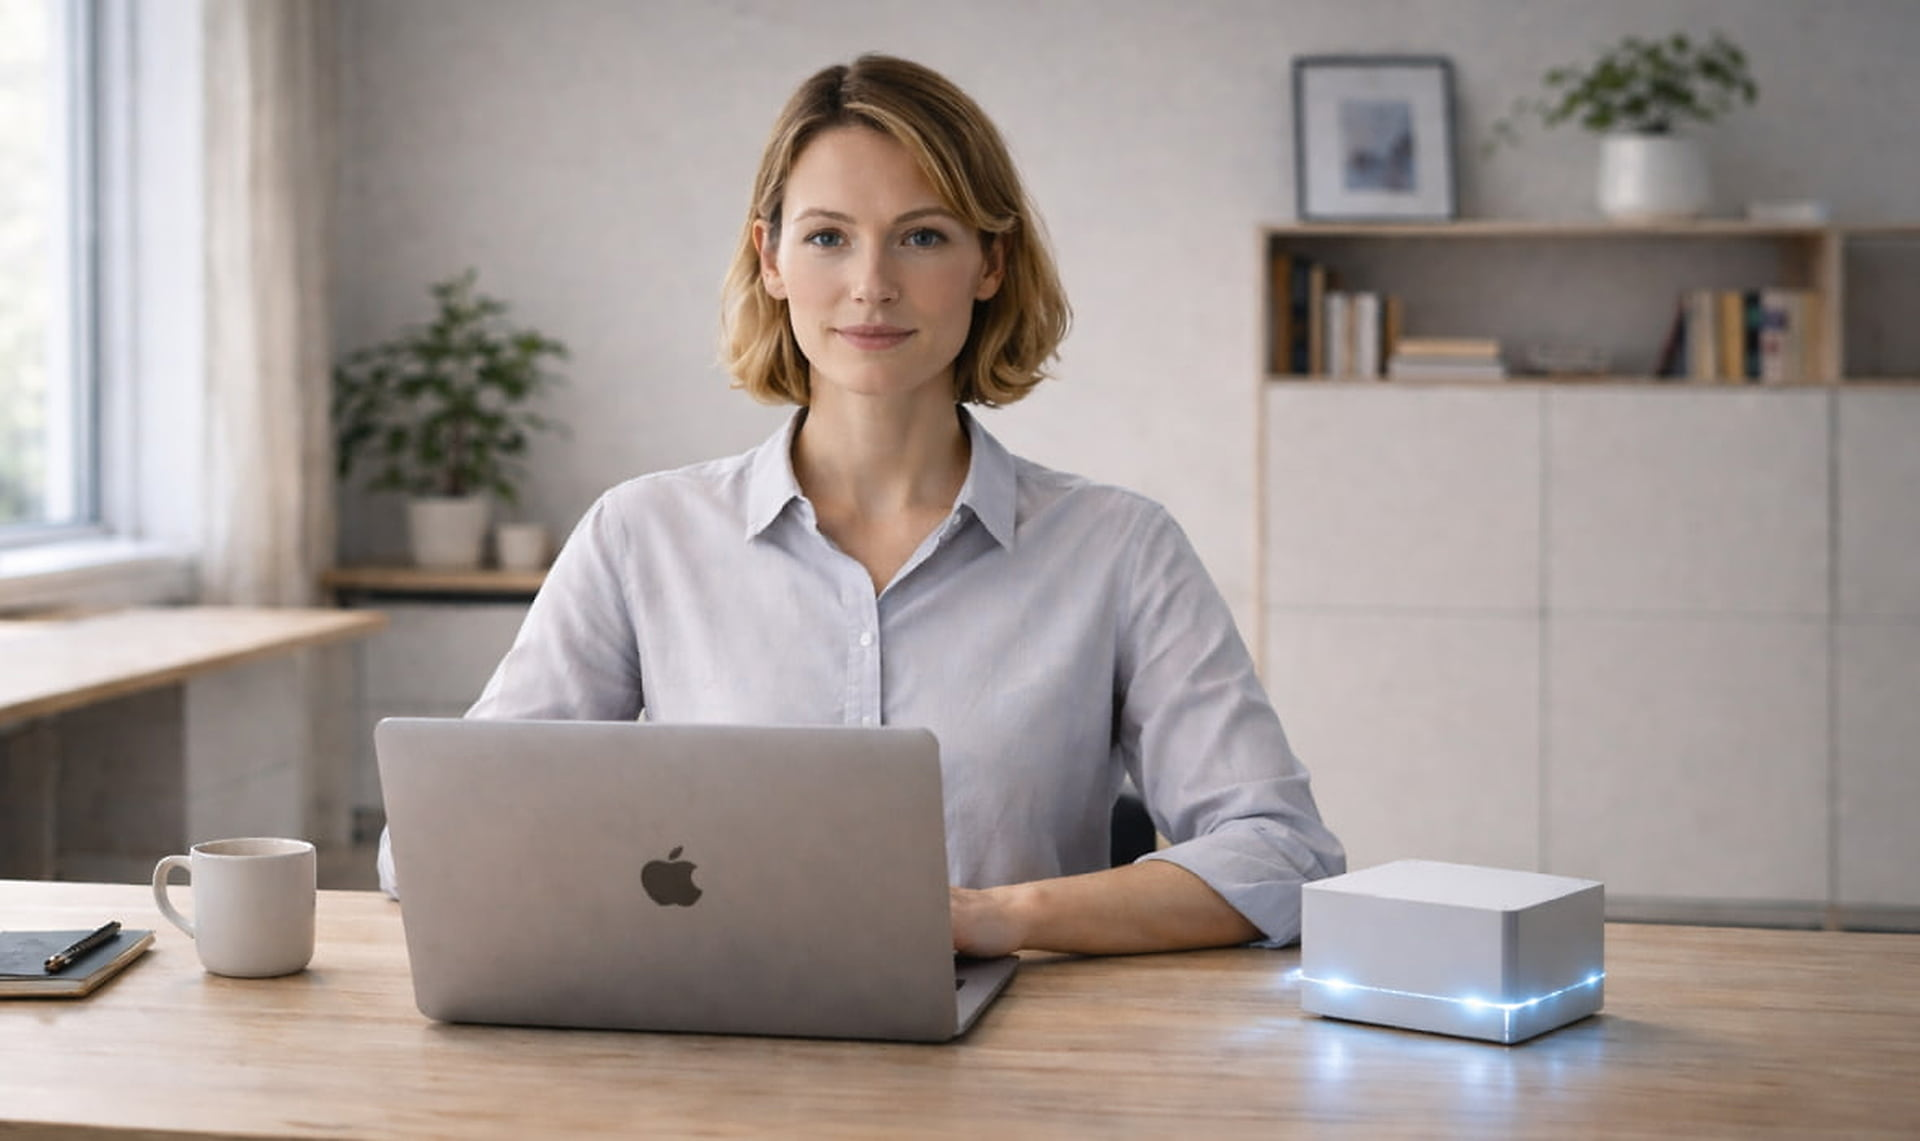
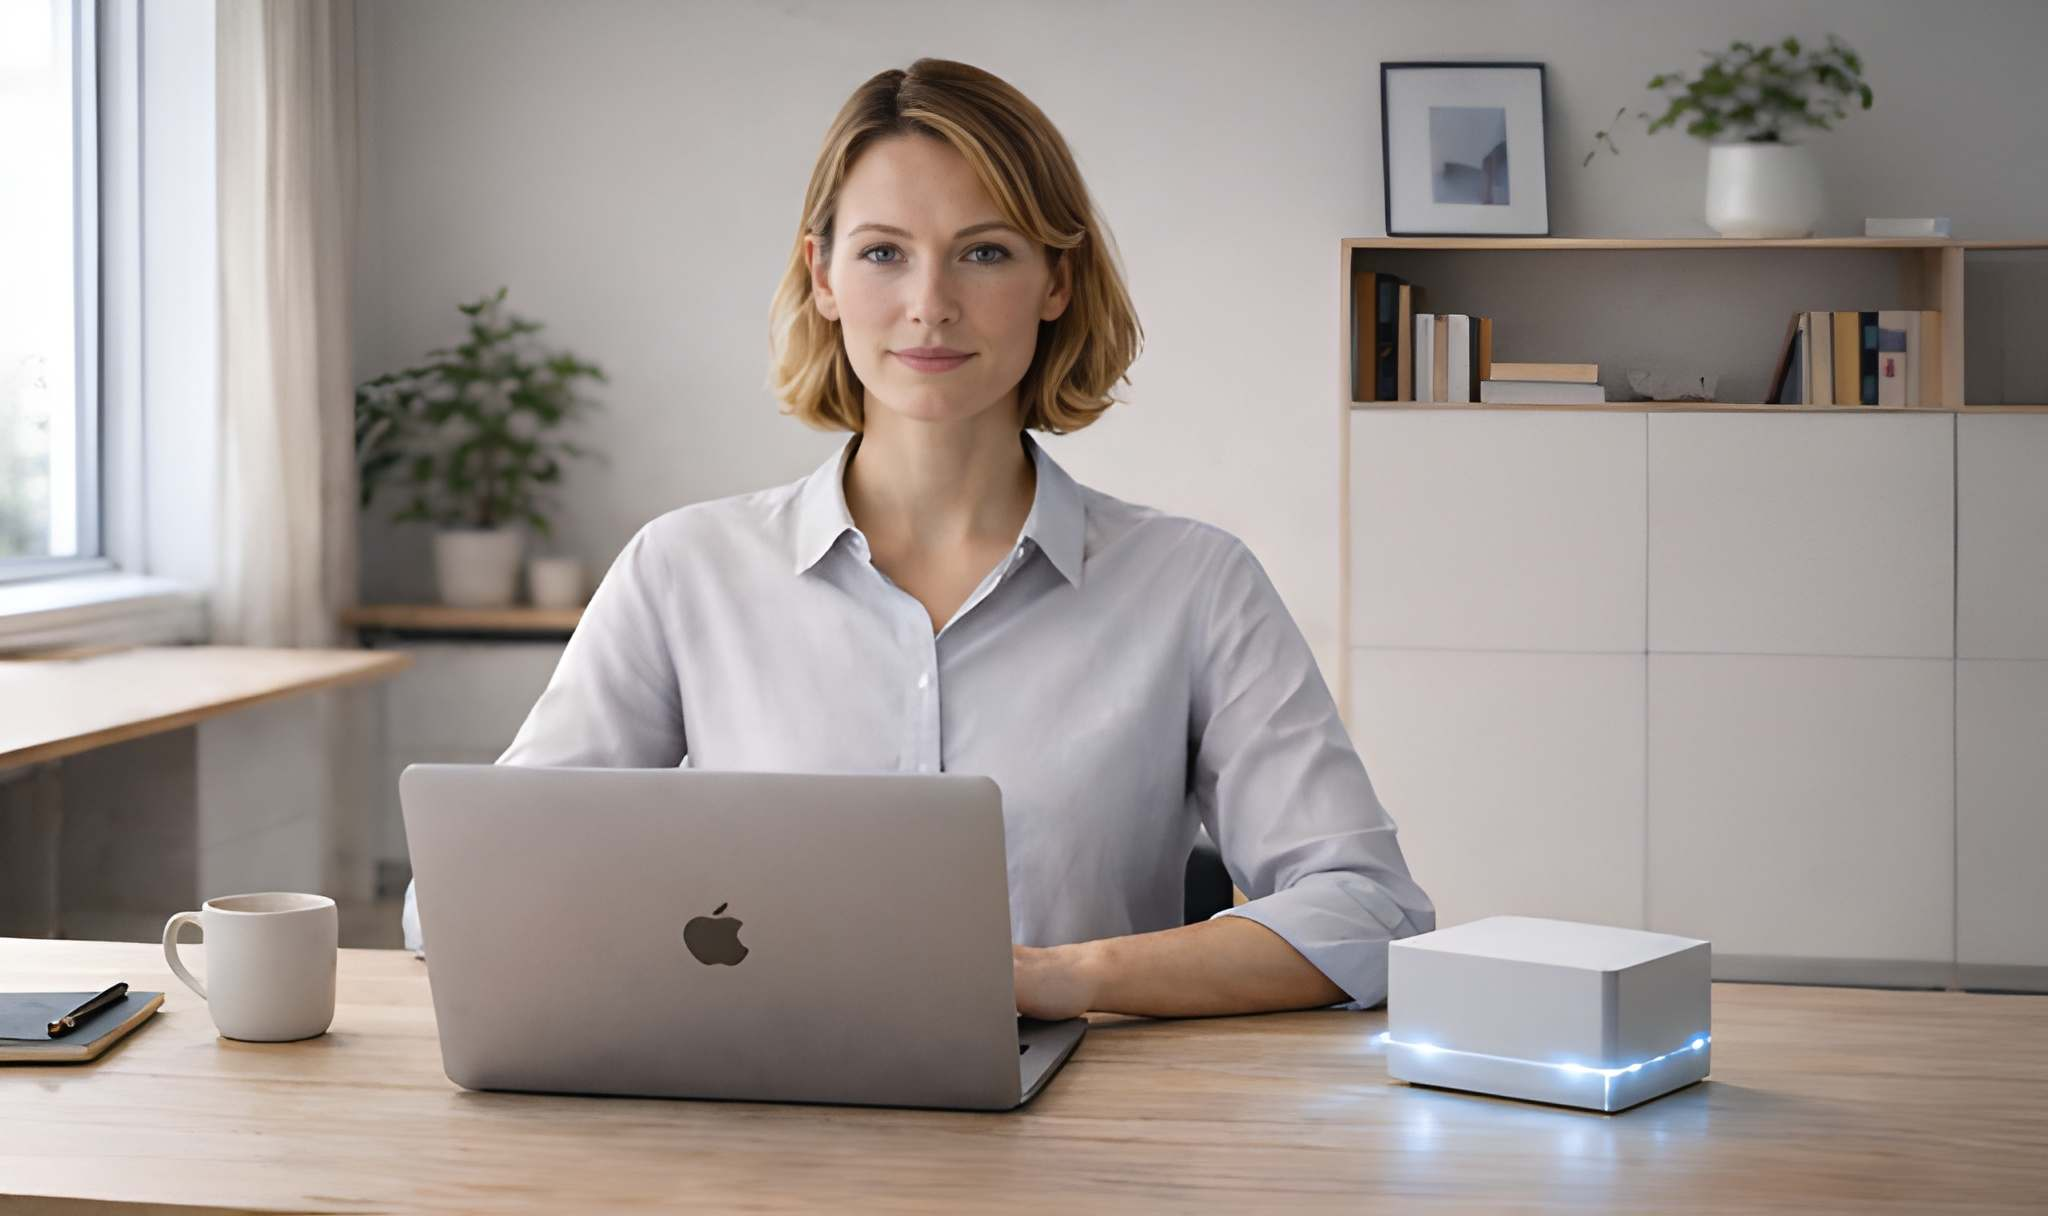
Publish changes

diff --git a/_site/index.html b/_site/index.html
@@ -2494,6 +2494,10 @@
         margin-bottom: var(--space-xs);
       }
 
+      #ai-loop-title {
+        scroll-margin-top: calc(var(--header-height) + 14px);
+      }
+
       .ai-loop-lead {
         margin: 0 0 var(--space-xs);
         color: var(--muted);
@@ -3432,7 +3436,7 @@
               </div>
             </div>
             <div class="hero-scroll">
-              <a class="hero-scroll-link" href="#ai-loop" aria-label="Scroll down">
+              <a class="hero-scroll-link" href="#ai-loop-title" aria-label="Scroll down">
                 <span class="hero-scroll-text">Scroll</span>
                 <span class="hero-scroll-icon" aria-hidden="true">
                   <svg viewBox="0 0 16 16" fill="none" xmlns="http://www.w3.org/2000/svg">
@@ -3707,7 +3711,7 @@
             <div>© 2026, Easy Tech Partners.</div>
             <div class="footer-build">
               Updated:
-              <time datetime="2026-03-10T10:12:10.949Z">2026-03-10 10:12 UTC</time>
+              <time datetime="2026-03-08T20:35:19.884Z">2026-03-08 20:35 UTC</time>
             </div>
           </div>
           <div class="footer-links" aria-label="Footer links">

diff --git a/_site/about-us/index.html b/_site/about-us/index.html
@@ -2492,6 +2492,10 @@
         margin-bottom: var(--space-xs);
       }
 
+      #ai-loop-title {
+        scroll-margin-top: calc(var(--header-height) + 14px);
+      }
+
       .ai-loop-lead {
         margin: 0 0 var(--space-xs);
         color: var(--muted);
@@ -3490,7 +3494,7 @@
             <div>© 2026, Easy Tech Partners.</div>
             <div class="footer-build">
               Updated:
-              <time datetime="2026-03-10T10:12:10.949Z">2026-03-10 10:12 UTC</time>
+              <time datetime="2026-03-08T20:35:19.884Z">2026-03-08 20:35 UTC</time>
             </div>
           </div>
           <div class="footer-links" aria-label="Footer links">

diff --git a/_site/ai-discovery-sprint/index.html b/_site/ai-discovery-sprint/index.html
@@ -2492,6 +2492,10 @@
         margin-bottom: var(--space-xs);
       }
 
+      #ai-loop-title {
+        scroll-margin-top: calc(var(--header-height) + 14px);
+      }
+
       .ai-loop-lead {
         margin: 0 0 var(--space-xs);
         color: var(--muted);
@@ -3478,7 +3482,7 @@
             <div>© 2026, Easy Tech Partners.</div>
             <div class="footer-build">
               Updated:
-              <time datetime="2026-03-10T10:12:10.949Z">2026-03-10 10:12 UTC</time>
+              <time datetime="2026-03-08T20:35:19.884Z">2026-03-08 20:35 UTC</time>
             </div>
           </div>
           <div class="footer-links" aria-label="Footer links">

diff --git a/_site/ai-security-data/index.html b/_site/ai-security-data/index.html
@@ -2492,6 +2492,10 @@
         margin-bottom: var(--space-xs);
       }
 
+      #ai-loop-title {
+        scroll-margin-top: calc(var(--header-height) + 14px);
+      }
+
       .ai-loop-lead {
         margin: 0 0 var(--space-xs);
         color: var(--muted);
@@ -3475,7 +3479,7 @@
             <div>© 2026, Easy Tech Partners.</div>
             <div class="footer-build">
               Updated:
-              <time datetime="2026-03-10T10:12:10.949Z">2026-03-10 10:12 UTC</time>
+              <time datetime="2026-03-08T20:35:19.884Z">2026-03-08 20:35 UTC</time>
             </div>
           </div>
           <div class="footer-links" aria-label="Footer links">

diff --git a/_site/ai-use-case-examples/index.html b/_site/ai-use-case-examples/index.html
@@ -2492,6 +2492,10 @@
         margin-bottom: var(--space-xs);
       }
 
+      #ai-loop-title {
+        scroll-margin-top: calc(var(--header-height) + 14px);
+      }
+
       .ai-loop-lead {
         margin: 0 0 var(--space-xs);
         color: var(--muted);
@@ -3508,7 +3512,7 @@
             <div>© 2026, Easy Tech Partners.</div>
             <div class="footer-build">
               Updated:
-              <time datetime="2026-03-10T10:12:10.949Z">2026-03-10 10:12 UTC</time>
+              <time datetime="2026-03-08T20:35:19.884Z">2026-03-08 20:35 UTC</time>
             </div>
           </div>
           <div class="footer-links" aria-label="Footer links">

diff --git a/_site/blog/automated-ai-agent-weekly-hubspot-seo-loop/index.html b/_site/blog/automated-ai-agent-weekly-hubspot-seo-loop/index.html
@@ -2489,6 +2489,10 @@
         margin-bottom: var(--space-xs);
       }
 
+      #ai-loop-title {
+        scroll-margin-top: calc(var(--header-height) + 14px);
+      }
+
       .ai-loop-lead {
         margin: 0 0 var(--space-xs);
         color: var(--muted);
@@ -3595,7 +3599,7 @@
             <div>© 2026, Easy Tech Partners.</div>
             <div class="footer-build">
               Updated:
-              <time datetime="2026-03-10T10:12:10.949Z">2026-03-10 10:12 UTC</time>
+              <time datetime="2026-03-08T20:35:19.884Z">2026-03-08 20:35 UTC</time>
             </div>
           </div>
           <div class="footer-links" aria-label="Footer links">

diff --git a/_site/blog/custom-hubspot-integrations-when-native-apps-arent-enough/index.html b/_site/blog/custom-hubspot-integrations-when-native-apps-arent-enough/index.html
@@ -2489,6 +2489,10 @@
         margin-bottom: var(--space-xs);
       }
 
+      #ai-loop-title {
+        scroll-margin-top: calc(var(--header-height) + 14px);
+      }
+
       .ai-loop-lead {
         margin: 0 0 var(--space-xs);
         color: var(--muted);
@@ -3561,7 +3565,7 @@
             <div>© 2026, Easy Tech Partners.</div>
             <div class="footer-build">
               Updated:
-              <time datetime="2026-03-10T10:12:10.949Z">2026-03-10 10:12 UTC</time>
+              <time datetime="2026-03-08T20:35:19.884Z">2026-03-08 20:35 UTC</time>
             </div>
           </div>
           <div class="footer-links" aria-label="Footer links">

diff --git a/_site/blog/index.html b/_site/blog/index.html
@@ -2492,6 +2492,10 @@
         margin-bottom: var(--space-xs);
       }
 
+      #ai-loop-title {
+        scroll-margin-top: calc(var(--header-height) + 14px);
+      }
+
       .ai-loop-lead {
         margin: 0 0 var(--space-xs);
         color: var(--muted);
@@ -3512,7 +3516,7 @@
             <div>© 2026, Easy Tech Partners.</div>
             <div class="footer-build">
               Updated:
-              <time datetime="2026-03-10T10:12:10.949Z">2026-03-10 10:12 UTC</time>
+              <time datetime="2026-03-08T20:35:19.884Z">2026-03-08 20:35 UTC</time>
             </div>
           </div>
           <div class="footer-links" aria-label="Footer links">

diff --git a/_site/business-ai-faq/index.html b/_site/business-ai-faq/index.html
@@ -2492,6 +2492,10 @@
         margin-bottom: var(--space-xs);
       }
 
+      #ai-loop-title {
+        scroll-margin-top: calc(var(--header-height) + 14px);
+      }
+
       .ai-loop-lead {
         margin: 0 0 var(--space-xs);
         color: var(--muted);
@@ -3461,7 +3465,7 @@
             <div>© 2026, Easy Tech Partners.</div>
             <div class="footer-build">
               Updated:
-              <time datetime="2026-03-10T10:12:10.949Z">2026-03-10 10:12 UTC</time>
+              <time datetime="2026-03-08T20:35:19.884Z">2026-03-08 20:35 UTC</time>
             </div>
           </div>
           <div class="footer-links" aria-label="Footer links">

diff --git a/_site/contact-us/index.html b/_site/contact-us/index.html
@@ -2492,6 +2492,10 @@
         margin-bottom: var(--space-xs);
       }
 
+      #ai-loop-title {
+        scroll-margin-top: calc(var(--header-height) + 14px);
+      }
+
       .ai-loop-lead {
         margin: 0 0 var(--space-xs);
         color: var(--muted);
@@ -3491,7 +3495,7 @@ LinkedIn: <a href="https://www.linkedin.com/in/krystiansulek/">linkedin.com/in/k
             <div>© 2026, Easy Tech Partners.</div>
             <div class="footer-build">
               Updated:
-              <time datetime="2026-03-10T10:12:10.949Z">2026-03-10 10:12 UTC</time>
+              <time datetime="2026-03-08T20:35:19.884Z">2026-03-08 20:35 UTC</time>
             </div>
           </div>
           <div class="footer-links" aria-label="Footer links">

diff --git a/_site/cookie-policy/index.html b/_site/cookie-policy/index.html
@@ -2492,6 +2492,10 @@
         margin-bottom: var(--space-xs);
       }
 
+      #ai-loop-title {
+        scroll-margin-top: calc(var(--header-height) + 14px);
+      }
+
       .ai-loop-lead {
         margin: 0 0 var(--space-xs);
         color: var(--muted);
@@ -3451,7 +3455,7 @@
             <div>© 2026, Easy Tech Partners.</div>
             <div class="footer-build">
               Updated:
-              <time datetime="2026-03-10T10:12:10.949Z">2026-03-10 10:12 UTC</time>
+              <time datetime="2026-03-08T20:35:19.884Z">2026-03-08 20:35 UTC</time>
             </div>
           </div>
           <div class="footer-links" aria-label="Footer links">

diff --git a/_site/implementation-process/index.html b/_site/implementation-process/index.html
@@ -2492,6 +2492,10 @@
         margin-bottom: var(--space-xs);
       }
 
+      #ai-loop-title {
+        scroll-margin-top: calc(var(--header-height) + 14px);
+      }
+
       .ai-loop-lead {
         margin: 0 0 var(--space-xs);
         color: var(--muted);
@@ -3466,7 +3470,7 @@ We start focused, prove value fast, and only scale when results justify the next
             <div>© 2026, Easy Tech Partners.</div>
             <div class="footer-build">
               Updated:
-              <time datetime="2026-03-10T10:12:10.949Z">2026-03-10 10:12 UTC</time>
+              <time datetime="2026-03-08T20:35:19.884Z">2026-03-08 20:35 UTC</time>
             </div>
           </div>
           <div class="footer-links" aria-label="Footer links">